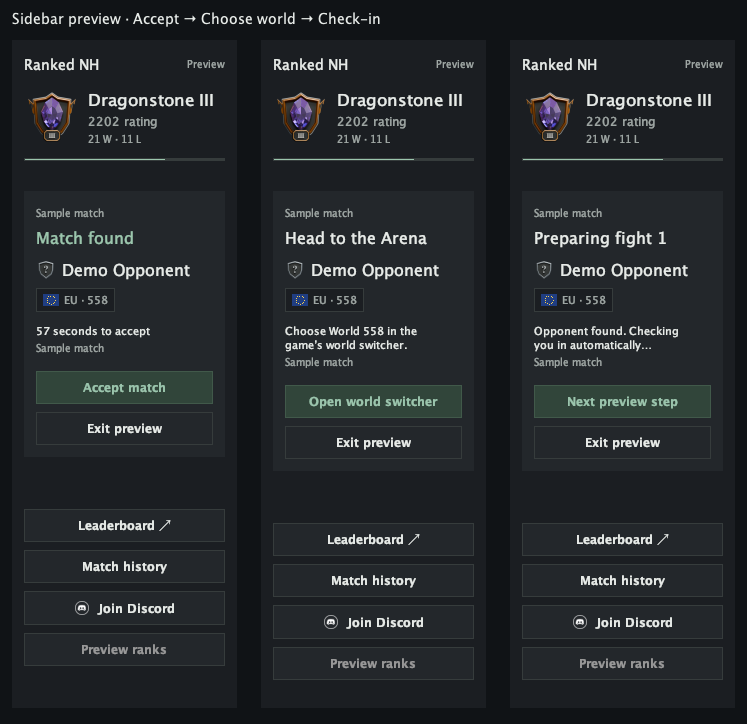
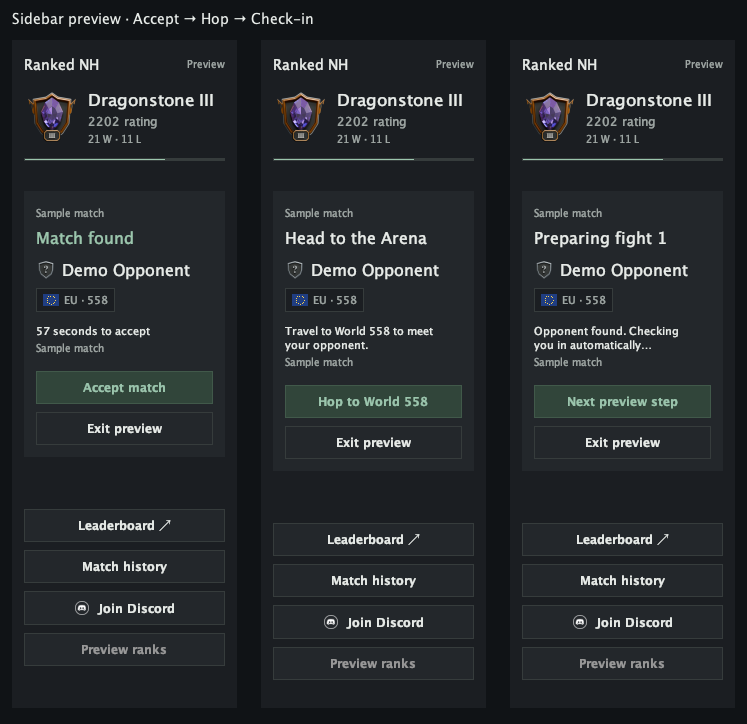
Restore clicked Arena world hops and document API hosting

Changed region(s): [[0.3695, 0.4558, 0.585, 0.4862], [0.2771, 0.0, 0.4926, 0.0304], [0.4003, 0.547, 0.585, 0.5773]]

diff --git a/src/main/java/com/rankednh/ArenaWorldGuide.java b/src/main/java/com/rankednh/ArenaWorldGuide.java
@@ -4,13 +4,15 @@ import java.util.concurrent.ScheduledExecutorService;
 import javax.inject.Inject;
 import net.runelite.api.Client;
 import net.runelite.api.GameState;
+import net.runelite.api.gameval.InterfaceID;
 import net.runelite.client.callback.ClientThread;
 import net.runelite.client.game.WorldService;
+import net.runelite.client.util.WorldUtil;
 import net.runelite.http.api.worlds.World;
 import net.runelite.http.api.worlds.WorldResult;
 import net.runelite.http.api.worlds.WorldType;
 
-/** Validates the suggested Arena world and opens the picker. The player selects the world. */
+/** A hop is armed only by the user's click; RuneLite's normal world-switcher checks still apply. */
 final class ArenaWorldGuide
 {
     private final Client client;
@@ -21,11 +23,11 @@ final class ArenaWorldGuide
     private volatile boolean busy;
     private long generation,started;
     private String matchId;
-    private int round,world;
-    private boolean readyToOpen;
-    private volatile String instruction="",region="";
-    private boolean setupHop;
+    private int round,world,attempts;
+    private net.runelite.api.World target;
+    private boolean submitted,setupHop;
     private String playerId;
+    private volatile String instruction="",region="";
 
     @Inject ArenaWorldGuide(Client client,ClientThread clientThread,WorldService worlds,ScheduledExecutorService executor,RankedNhPlugin plugin){
         this.client=client;this.clientThread=clientThread;this.worlds=worlds;this.executor=executor;this.plugin=plugin;
@@ -48,8 +50,8 @@ final class ArenaWorldGuide
     void request(){
         Models.Status s=plugin.status();
         if(busy)return;
-        if(!plugin.accountMatches() || client.getGameState()!=GameState.LOGGED_IN){plugin.handoffProblem("Log into your enrolled account before opening the world switcher.");return;}
-        if(!eligible(s)){plugin.handoffProblem(s!=null && "demo".equals(s.mode)?"Demo matches have no real Arena destination.":"Both players must accept before opening the world switcher.");return;}
+        if(!plugin.accountMatches() || client.getGameState()!=GameState.LOGGED_IN){plugin.handoffProblem("Log into your enrolled account before hopping.");return;}
+        if(!eligible(s)){plugin.handoffProblem(s!=null && "demo".equals(s.mode)?"Demo matches have no real Arena world to hop to.":"Both players must accept before hopping.");return;}
         if(client.getWorld()==s.match.world)return;
         setupHop=false;matchId=s.match.id;round=s.match.round;
         start(s.match.world,s.match.region);
@@ -64,7 +66,7 @@ final class ArenaWorldGuide
         start(0,region);
     }
     private void start(int assigned,String region){
-        busy=true;readyToOpen=false;world=assigned;instruction="";this.region=region;
+        busy=true;submitted=false;target=null;attempts=0;world=assigned;this.region=region;instruction="Finding an Arena world…";
         started=System.nanoTime();final long request=++generation;
         plugin.handoffProblem("");
         executor.execute(()->{
@@ -84,8 +86,10 @@ final class ArenaWorldGuide
                 if(error!=null){worlds.refresh();fail(error);return;}
                 if(!current()){cancel();return;}
                 world=resolved.getId();
-                instruction="Choose World "+world+" ("+region+") in the game’s world switcher.";
-                readyToOpen=true;
+                instruction="Switching to World "+world+" ("+region+"). Complete any confirmation in game.";
+                target=client.createWorld();target.setId(resolved.getId());target.setAddress(resolved.getAddress());
+                target.setActivity(resolved.getActivity());target.setLocation(resolved.getLocation());
+                target.setPlayerCount(resolved.getPlayers());target.setTypes(WorldUtil.toWorldTypes(resolved.getTypes()));
             });
         });
     }
@@ -96,16 +100,16 @@ final class ArenaWorldGuide
     }
     void tick(){
         if(!busy)return;
-        if(System.nanoTime()-started>15_000_000_000L){fail("Could not load Arena worlds. Try again shortly.");return;}
+        if(System.nanoTime()-started>15_000_000_000L){fail("World hop did not complete. Finish any game dialog, then try again.");return;}
         if(client.getGameState()==GameState.HOPPING || client.getGameState()==GameState.LOADING)return;
         if(!current() || client.getGameState()!=GameState.LOGGED_IN){cancel();return;}
         if(client.getWorld()==world){cancel();return;}
-        if(!readyToOpen)return;
-        // Opening the native picker does not select a world or perform a hop.
-        client.openWorldHopper();
-        busy=false;readyToOpen=false;
-        plugin.handoffProblem("");
+        if(target==null || submitted)return;
+        if(client.getWidget(InterfaceID.Worldswitcher.BUTTONS)==null){
+            if(attempts++>=3){fail("Cannot open the world switcher. Finish what you're doing, then try again.");return;}
+            client.openWorldHopper();
+        }else{client.hopToWorld(target);submitted=true;}
     }
     private void fail(String message){cancel();plugin.handoffProblem(message);}
-    void cancel(){generation++;busy=false;readyToOpen=false;matchId=null;playerId=null;setupHop=false;instruction="";region="";}
+    void cancel(){generation++;busy=false;target=null;matchId=null;playerId=null;setupHop=false;instruction="";region="";}
 }

diff --git a/src/test/java/com/rankednh/ArenaWorldGuideTest.java b/src/test/java/com/rankednh/ArenaWorldGuideTest.java
@@ -6,6 +6,8 @@ import java.util.ArrayList;
 import java.util.List;
 import net.runelite.api.Client;
 import net.runelite.api.GameState;
+import net.runelite.api.World;
+import net.runelite.api.widgets.Widget;
 import org.junit.Test;
 import static org.junit.Assert.*;
 
@@ -14,11 +16,17 @@ public class ArenaWorldGuideTest {
     private final List<String> calls=new ArrayList<>();
     private boolean accountMatches=true;
     private long now;
+    private int currentWorld=301;
+    private boolean pickerOpen,canOpen=true;
+    private final World target=(World)Proxy.newProxyInstance(getClass().getClassLoader(),new Class[]{World.class},(p,m,a)->null);
+    private final Widget picker=(Widget)Proxy.newProxyInstance(getClass().getClassLoader(),new Class[]{Widget.class},(p,m,a)->null);
     private final Client client=(Client)Proxy.newProxyInstance(getClass().getClassLoader(),new Class[]{Client.class},(p,m,a)->{
         switch(m.getName()){
             case "getGameState":return GameState.LOGGED_IN;
-            case "getWorld":return 301;
-            case "openWorldHopper":calls.add("open picker");return null;
+            case "getWorld":return currentWorld;
+            case "getWidget":return pickerOpen?picker:null;
+            case "openWorldHopper":calls.add("open picker");pickerOpen=canOpen;return null;
+            case "hopToWorld":assertSame(target,a[0]);calls.add("hop");return null;
             default:throw new AssertionError("Unexpected client action: "+m.getName());
         }
     });
@@ -32,12 +40,24 @@ public class ArenaWorldGuideTest {
         };
         ArenaWorldGuide guide=new ArenaWorldGuide(client,null,null,null,plugin);
         set(guide,"busy",true);set(guide,"started",System.nanoTime());set(guide,"matchId",status.match.id);
-        set(guide,"round",1);set(guide,"world",558);set(guide,"readyToOpen",true);
+        set(guide,"round",1);set(guide,"world",558);set(guide,"target",target);
         return guide;
     }
-    @Test public void resolvedWorldOnlyOpensThePickerOnce()throws Exception{
-        ArenaWorldGuide guide=resolved();guide.tick();guide.tick();
-        assertEquals(List.of("open picker"),calls);assertFalse(guide.busy());assertEquals(301,client.getWorld());
+    @Test public void clickedHopOpensThePickerAndSubmitsOnlyOnce()throws Exception{
+        ArenaWorldGuide guide=resolved();guide.tick();guide.tick();guide.tick();
+        assertEquals(List.of("open picker","hop"),calls);assertTrue(guide.busy());
+        currentWorld=558;guide.tick();assertFalse(guide.busy());assertEquals(2,calls.size());
+    }
+    @Test public void noClickMeansNoHop()throws Exception{
+        ArenaWorldGuide guide=resolved();guide.cancel();guide.tick();assertTrue(calls.isEmpty());
+    }
+    @Test public void failedPickerStopsAfterThreeAttempts()throws Exception{
+        ArenaWorldGuide guide=resolved();canOpen=false;
+        for(int i=0;i<6;i++)guide.tick();
+        assertEquals(List.of("open picker","open picker","open picker"),calls);assertFalse(guide.busy());
+    }
+    @Test public void changedRoundCannotHop()throws Exception{
+        ArenaWorldGuide guide=resolved();status.match.round=2;guide.tick();assertTrue(calls.isEmpty());assertFalse(guide.busy());
     }
     @Test public void staleMatchCannotOpenThePicker()throws Exception{
         ArenaWorldGuide guide=resolved();status.match.id="different";guide.tick();

diff --git a/src/main/java/com/rankednh/RankedNhPanel.java b/src/main/java/com/rankednh/RankedNhPanel.java
@@ -95,7 +95,7 @@ final class RankedNhPanel extends PluginPanel
         match.add(Box.createVerticalStrut(8));match.add(requestStatus);match.add(error);
         primary=button("Accept match",true,()->handoff(false));secondary=button("Decline",false,()->handoff(true));
         match.add(primary);match.add(secondary);
-        setupHop=button("Open world switcher",true,()->actions.setupHop(region.selected()));match.add(setupHop);
+        setupHop=button("Hop to Arena",true,()->actions.setupHop(region.selected()));match.add(setupHop);
         add(match);gap(16);
 
         access.add(label("Pilot access key",12,TEXT));access.add(Box.createVerticalStrut(8));
@@ -194,7 +194,7 @@ final class RankedNhPanel extends PluginPanel
         boolean choosingRegion=connected && !preview && !s.queued && (s.match==null || !s.match.isOpen());
         regionChoice.setVisible(choosingRegion);queue.setVisible(choosingRegion);leave.setVisible(connected && !preview && s.queued);
         setupHop.setVisible(choosingRegion && kitRequired && onboardingStep==ArenaOnboarding.Step.HOP);
-        setupHop.setText(setupHopBusy?"Finding world…":"Open world switcher");
+        setupHop.setText(setupHopBusy?"Hopping…":"Hop to Arena");
         queue.setToolTipText(kitRequired?"Check your saved Max/Med kit at the supplies crate first.":null);
         queue.setEnabled(!busy && accountMatches && !kitRequired);leave.setEnabled(!busy && accountMatches);
         for(JButton b:new JButton[]{primary,secondary,forfeit,review,showReport}){b.setVisible(false);b.setEnabled(!busy && accountMatches);}
@@ -299,7 +299,7 @@ final class RankedNhPanel extends PluginPanel
         if(onboardingStep==ArenaOnboarding.Step.HOP){
             state.setText("Visit the supplies crate");
             copy(detail,!worldGuide.isEmpty() && java.util.Objects.equals(worldGuideRegion,region.selected())?worldGuide:
-                "Open the world switcher and choose a PvP Arena world to check your Max/Med kit.");
+                "Hop to a PvP Arena world in your selected region to check your Max/Med kit.");
             copy(hint,"A one-time check for this character before matchmaking.");
         }else if(onboardingStep==ArenaOnboarding.Step.CRATE){
             state.setText("Open the supplies crate");

diff --git a/src/main/java/com/rankednh/MatchupView.java b/src/main/java/com/rankednh/MatchupView.java
@@ -25,8 +25,8 @@ final class MatchupView
         }else if("preparing".equals(m.state)){
             v.heading="Preparing fight "+m.round;
             if(world!=m.world || !arena){
-                v.message=hopping?"Finding Arena world…":"Choose World "+m.world+" in the game’s world switcher.";
-                v.primary=hopping?"Finding world…":"Open world switcher";v.action="hop";
+                v.message=hopping?"Switching worlds. Complete any confirmation in game.":"Travel to World "+m.world+" to meet your opponent.";
+                v.primary=hopping?"Hopping…":"Hop to World "+m.world;v.action="hop";
                 v.heading="Head to the Arena";
                 v.enabled=!busy && !hopping && !"demo".equals(s.mode);
                 v.footer="demo".equals(s.mode)?"Demo world only. No real Arena destination.":"Your opponent will be marked when nearby.";
@@ -48,8 +48,8 @@ final class MatchupView
         MatchupView v=new MatchupView();v.key="preview:"+stage;v.preview=true;
         v.heading=stage==0?"Match found":stage==1?"Head to the Arena":stage==2?"Preparing fight 1":"Challenge opponent";
         v.opponent="Demo Opponent";v.destination="EU · World 558";v.region="EU";v.world=558;
-        v.message=stage==0?"57 seconds to accept":stage==1?"Choose World 558 in the game’s world switcher.":stage==2?"Opponent found. Checking you in automatically…":"Right-click your opponent → Challenge.";
-        v.primary=stage==0?"Accept match":stage==1?"Open world switcher":stage==2?"Next preview step":"Replay preview";v.action="preview";v.enabled=true;
+        v.message=stage==0?"57 seconds to accept":stage==1?"Travel to World 558 to meet your opponent.":stage==2?"Opponent found. Checking you in automatically…":"Right-click your opponent → Challenge.";
+        v.primary=stage==0?"Accept match":stage==1?"Hop to World 558":stage==2?"Next preview step":"Replay preview";v.action="preview";v.enabled=true;
         v.secondary="Exit preview";v.secondaryAction="close-preview";v.footer="Sample only. No game or match actions.";
         return v;
     }

diff --git a/src/test/java/com/rankednh/MatchupTest.java b/src/test/java/com/rankednh/MatchupTest.java
@@ -35,7 +35,7 @@ public class MatchupTest
     }
     @Test public void handoffExplainsManualWorldSelectionThenChecksArrival(){
         Models.Status s=status();s.match.state="preparing";
-        MatchupView v=MatchupView.from(s,true,false,301,false,false,false,false,0);assertEquals("hop",v.action);assertTrue(v.enabled);assertEquals("Open world switcher",v.primary);assertTrue(v.message.contains("Choose World 558"));
+        MatchupView v=MatchupView.from(s,true,false,301,false,false,false,false,0);assertEquals("hop",v.action);assertTrue(v.enabled);assertEquals("Hop to World 558",v.primary);assertTrue(v.message.contains("Travel to World 558"));
         v=MatchupView.from(s,true,false,301,false,false,true,false,0);assertFalse(v.enabled);
         v=MatchupView.from(s,true,false,558,true,true,false,false,0);assertEquals("panel",v.action);assertEquals("Opponent found. Checking you in…",v.message);assertFalse(v.enabled);
         s.match.ready=true;assertFalse(MatchupView.from(s,true,false,558,true,true,false,false,0).enabled);
@@ -89,7 +89,7 @@ public class MatchupTest
             List<String> calls=new ArrayList<>();RankedNhPanel panel=panel(calls);
             panel.render(null,"",false,false,"",MatchupView.preview(0));
             JButton accept=button(panel,"Accept match");assertTrue(accept.isVisible());assertTrue(accept.isEnabled());accept.doClick();
-            panel.render(null,"",false,false,"",MatchupView.preview(1));button(panel,"Open world switcher").doClick();
+            panel.render(null,"",false,false,"",MatchupView.preview(1));button(panel,"Hop to World 558").doClick();
             button(panel,"Exit preview").doClick();
             assertEquals(List.of("preview:0/preview","preview:1/preview","preview:1/close-preview"),calls);
         });

diff --git a/src/test/java/com/rankednh/QueueControlsTest.java b/src/test/java/com/rankednh/QueueControlsTest.java
@@ -64,11 +64,11 @@ public class QueueControlsTest {
         SwingUtilities.invokeAndWait(()->{
             List<String> events=new ArrayList<>();Models.Status status=status();RankedNhPanel panel=new RankedNhPanel(actions(events),"EU");
             panel.onboarding(ArenaOnboarding.Step.HOP,true,false);panel.render(status,"",false,true,"");panel.renderOnboarding(null);
-            assertFalse(button(panel,"Find a match").isEnabled());assertTrue(button(panel,"Open world switcher").isVisible());assertTrue(button(panel,"Open world switcher").isEnabled());
+            assertFalse(button(panel,"Find a match").isEnabled());assertTrue(button(panel,"Hop to Arena").isVisible());assertTrue(button(panel,"Hop to Arena").isEnabled());
             button(panel,"Find a match").doClick();assertTrue(events.isEmpty());
             status.queued=true;panel.render(status,"",false,true,"");button(panel,"Cancel search").doClick();assertEquals(List.of("leave"),events);
             status.queued=false;panel.onboarding(ArenaOnboarding.Step.READY,false,false);panel.render(status,"",false,true,"");
-            assertTrue(button(panel,"Find a match").isEnabled());assertFalse(button(panel,"Open world switcher").isVisible());assertEquals(List.of("leave"),events);
+            assertTrue(button(panel,"Find a match").isEnabled());assertFalse(button(panel,"Hop to Arena").isVisible());assertEquals(List.of("leave"),events);
             button(panel,"Find a match").doClick();assertEquals(List.of("leave","queue EU"),events);
         });
     }

diff --git a/src/test/java/com/rankednh/MatchupPreview.java b/src/test/java/com/rankednh/MatchupPreview.java
@@ -24,7 +24,7 @@ public class MatchupPreview
             try{
                 BufferedImage sidebar=new BufferedImage(747,724,BufferedImage.TYPE_INT_RGB);Graphics2D p=sidebar.createGraphics();
                 p.setColor(new Color(16,19,22));p.fillRect(0,0,747,724);p.setColor(RankedNhPanel.TEXT);p.setFont(new Font(Font.SANS_SERIF,Font.PLAIN,14));
-                p.drawString("Sidebar preview · Accept → Choose world → Check-in",12,24);
+                p.drawString("Sidebar preview · Accept → Hop → Check-in",12,24);
                 for(int i=0;i<3;i++){
                     Models.Status s=MatchupTest.status();s.regions=List.of("EU","US");s.crossRegionAfterSeconds=30;
                     s.player.games=32;s.player.wins=21;s.player.rating=2202;s.player.rank=new Models.Rank();

diff --git a/REVIEW.md b/REVIEW.md
@@ -14,7 +14,7 @@ Polling is every 15 seconds for an idle logged-in participant, 30 seconds when l
 
 ## Game interaction and overlays
 
-- `ArenaWorldGuide` validates the suggested destination against RuneLite's world list, region, Arena type and capacity. After a user clicks **Open world switcher**, it opens the native picker with `Client.openWorldHopper`. The player selects the displayed world manually. The plugin never calls `Client.hopToWorld`.
+- `ArenaWorldGuide` validates the destination against RuneLite's world list, region, Arena type and capacity. Only clicking **Hop to World …** or **Hop to Arena** arms a hop. It opens the native switcher with `Client.openWorldHopper` and submits the validated world once with the restricted `Client.hopToWorld` API. Normal game confirmations remain manual. Changing account, match or round cancels a pending hop; failed attempts time out. There is no automatic hopping when a match arrives. This call requires manual Plugin Hub review.
 - `OpponentLocator` limits the tile, nameplate and minimap marker to the assigned opponent in the loaded scene, on the assigned Arena world, during preparation, active play or reporting. It does not locate players outside the loaded scene.
 - `RankMenuIcons` changes the rank image in a player's menu target on Arena worlds. It leaves the menu action and ordering intact. Other players' ranks are queried only after a local enrolled-member check.
 - Setup overlays identify differences from the default kit. They do not equip items, copy a loadout, choose a build, accept a duel or make combat decisions.
@@ -42,6 +42,6 @@ The production plugin has no dependencies beyond those supplied by RuneLite. JUn
 
 `./gradlew test jar` runs the public plugin tests. Coverage includes request serialization, repeated status refreshes during queue clicks, default-kit comparisons across worn and inventory slots, stale report handling and all rank resources.
 
-Earlier two-account Arena testing covered ordinary fights, setup differences, opponent indicators and reports. Hosted API tests covered pairing, paired round reports, result retries, settlement and history. Automated API tests are not a substitute for an Arena fight. The full disconnect, double-death and game-update matrix is still being tested in the beta. The latest queue-control changes have regression coverage; a fresh two-player in-game check is pending.
+Earlier two-account Arena testing covered ordinary fights, setup differences, opponent indicators and reports. Hosted API tests covered pairing, paired round reports, result retries, settlement and history. Automated API tests are not a substitute for an Arena fight. The full disconnect, double-death and game-update matrix is still being tested in the beta. The latest queue-control and click-to-hop changes have regression coverage; a fresh two-player in-game check, including the restored hop, is pending.
 
 The hosted Beta season awards ratings after accepted paired reports; earlier unrated pilot matches stay archived. Disputed or incomplete evidence goes to review. Closing the client can lose an unsent report. Matching client reports cannot prevent collusion or prove an untampered game result.

diff --git a/README.md b/README.md
@@ -6,7 +6,7 @@ The queue uses the Arena's default Max/Med loadout at 126 combat. Choose EU or U
 
 **Ranked NH is an invite-only beta. It is not yet available to install through Plugin Hub. The Beta season awards ratings, which reset before public Season 1.**
 
-![The Ranked NH sidebar showing match acceptance, manual world selection and arrival checks. The players and results are sample data.](docs/sidebar.png)
+![The Ranked NH sidebar showing match acceptance, click-to-hop world travel and arrival checks. The players and results are sample data.](docs/sidebar.png)
 
 ## Joining the beta
 
@@ -18,9 +18,9 @@ The server address is already set to `https://ranked-nh.vercel.app`. Normal Plug
 
 ## Playing a match
 
-1. Choose EU or US. On your first visit, use **Open world switcher**, select the suggested Arena world and open **Supplies → Max/Med kit**. Fix any listed differences; **Find a match** unlocks once the check passes. The check is remembered for that character. **Cancel search** leaves the queue.
+1. Choose EU or US. On your first visit, click **Hop to Arena**, complete any game confirmation and open **Supplies → Max/Med kit**. Fix any listed differences; **Find a match** unlocks once the check passes. The check is remembered for that character. **Cancel search** leaves the queue.
 2. Accept the matchup in the sidebar. You can enable a sound and RuneLite notification for new matches.
-3. Once both players accept, click **Open world switcher**, then select the assigned Arena world yourself. The plugin marks your opponent when they are nearby.
+3. Once both players accept, click **Hop to World …** to travel to the assigned Arena world. Complete any normal game confirmation. The plugin marks your opponent when they are nearby.
 4. Challenge that player through the Arena, then select **Max/Med** and the default loadout. The plugin checks both saved kits and shows missing or different items. Follow the outlined **Opponent's kit** tab, then **Confirm** when both kits pass. Inventory positions and which items you start wearing do not matter, provided the combined items and quantities match.
 5. Play until one player has won two fights. Wait for both round reports before starting the next fight.
 

diff --git a/PRIVACY.md b/PRIVACY.md
@@ -2,7 +2,7 @@
 
 Updated 13 October 2026.
 
-Ranked NH uses `https://ranked-nh.vercel.app`, operated by ImBenHayward, for its invited-player queue and match records. The API runs on Vercel and records are stored in Supabase Postgres. This service is separate from RuneLite and Jagex.
+Ranked NH uses `https://ranked-nh.vercel.app`, operated by ImBenHayward, for its invited-player queue and match records. The API runs on Render, Vercel forwards requests from the existing address, and records are stored in Supabase Postgres. This service is separate from RuneLite and Jagex.
 
 ## When requests start
 
